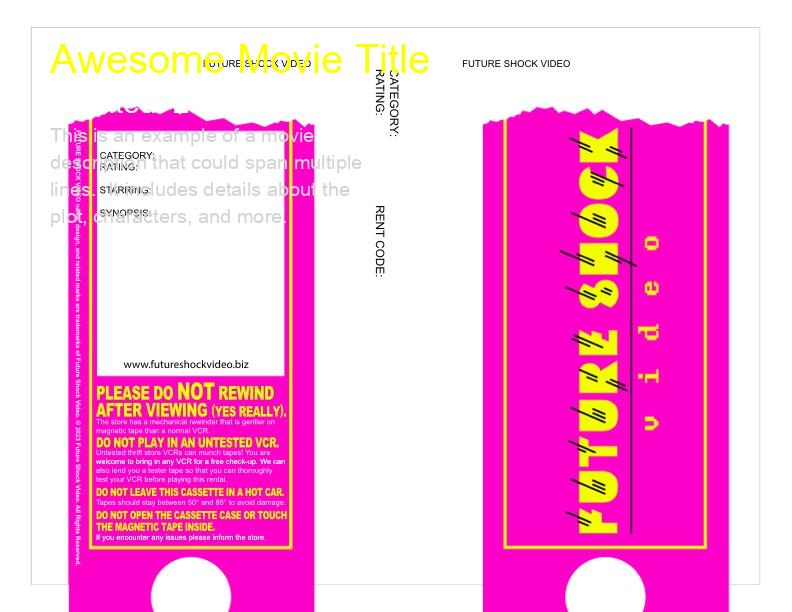
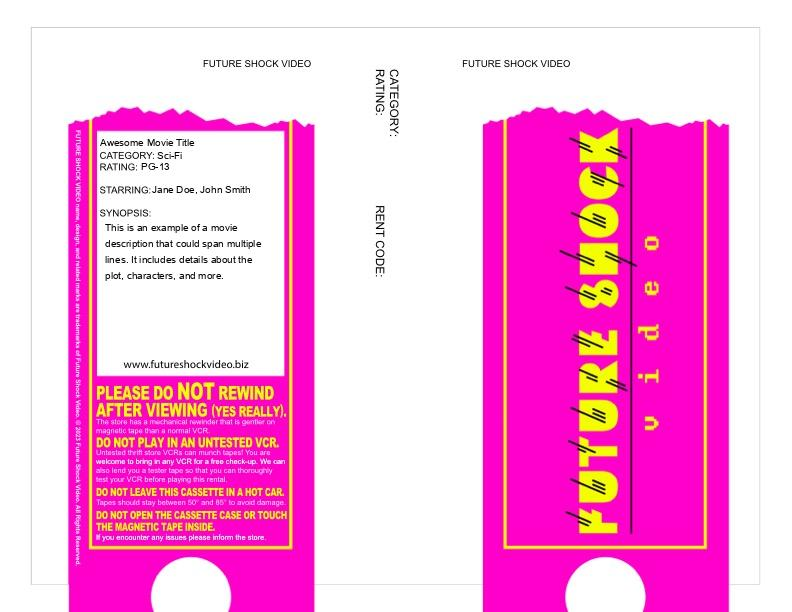
updating

diff --git a/overlay.py b/overlay.py
@@ -3,52 +3,62 @@ import textwrap
 from PIL import Image, ImageDraw, ImageFont
 
 
-def add_text_to_image(image_path, output_path, title, date, description):
-    # Load the image
-    image = Image.open(image_path)
-    draw = ImageDraw.Draw(image)
+class ImageTextRenderer:
+    def __init__(self, image_path, font_path="/Library/Fonts/Arial Unicode.ttf"):
+        self.image = Image.open(image_path)
+        self.draw = ImageDraw.Draw(self.image)
+        self.font_path = font_path
+        self.colors = {
+            "title": "black",
+            "category": "black",
+            "rating": "black",
+            "starring": "black",
+            "synopsis": "black",
+        }
+        self.font_sizes = {
+            "title": 10,
+            "category": 10,
+            "rating": 10,
+            "starring": 10,
+            "synopsis": 10,
+        }
+        self.positions = {
+            "title": (100, 135),
+            "category": (157, 148),
+            "rating": (141, 159),
+            "starring": (152, 182),
+            "synopsis": (105, 220),
+        }
 
-    # Define fonts (the path might need to be adjusted for your system)
-    title_font = ImageFont.truetype("/Library/Fonts/Arial Unicode.ttf", 40)
-    date_font = ImageFont.truetype("/Library/Fonts/Arial Unicode.ttf", 30)
-    description_font = ImageFont.truetype("/Library/Fonts/Arial Unicode.ttf", 20)
+    def add_text(self, text_type, text):
+        font = ImageFont.truetype(self.font_path, self.font_sizes[text_type])
+        color = self.colors[text_type]
+        position = self.positions[text_type]
+        if text_type == "synopsis":
+            self._wrap_text(text, font, color, position)
+        else:
+            self.draw.text(position, text, font=font, fill=color)
 
-    # Define text colors
-    title_color = "yellow"
-    date_color = "white"
-    description_color = "lightgray"
+    def _wrap_text(self, text, font, color, position):
+        current_y = position[1]
+        for line in textwrap.wrap(text, width=40):
+            self.draw.text((position[0], current_y), line, font=font, fill=color)
+            # Measure the height of the line
+            text_height = font.getmetrics()[0]
+            current_y += text_height + 5  # Adding a little padding between lines
 
-    # Position for the title, date, and description
-    title_position = (50, 30)
-    date_position = (50, 80)
-    description_position = (50, 120)
-
-    # Add text to image
-    draw.text(title_position, title, font=title_font, fill=title_color)
-    draw.text(date_position, date, font=date_font, fill=date_color)
-
-    current_y = description_position[1]
-    print(type(description))
-    for line in textwrap.wrap(description, width=40):
-        draw.text(
-            (description_position[0], current_y),
-            line,
-            font=description_font,
-            fill=description_color,
-        )
-        # Correct method to get text size
-        text_height = description_font.getmetrics()[0]
-        current_y += text_height + 5  # Move to the next line with a small padding
-
-    # Save the modified image
-    image.save(output_path)
+    def save_image(self, output_path):
+        self.image.save(output_path)
 
 
 # Example usage
-add_text_to_image(
-    "Future Shock Video Box BLANK TEMPLATE.jpg",  # Input image file path
-    "output_image.jpg",  # Output image file path
-    "Awesome Movie Title",  # Title
-    "Created: 2024",  # Date
-    "This is an example of a movie description that could span multiple lines.  It includes details about the plot, characters, and more.",  # Description
+renderer = ImageTextRenderer("Future Shock Video Box BLANK TEMPLATE.jpg")
+renderer.add_text("title", "Awesome Movie Title")
+renderer.add_text("category", "Sci-Fi")
+renderer.add_text("rating", "PG-13")
+renderer.add_text("starring", "Jane Doe, John Smith")
+renderer.add_text(
+    "synopsis",
+    "This is an example of a movie description that could span multiple lines. It includes details about the plot, characters, and more.",
 )
+renderer.save_image("output_image.jpg")
